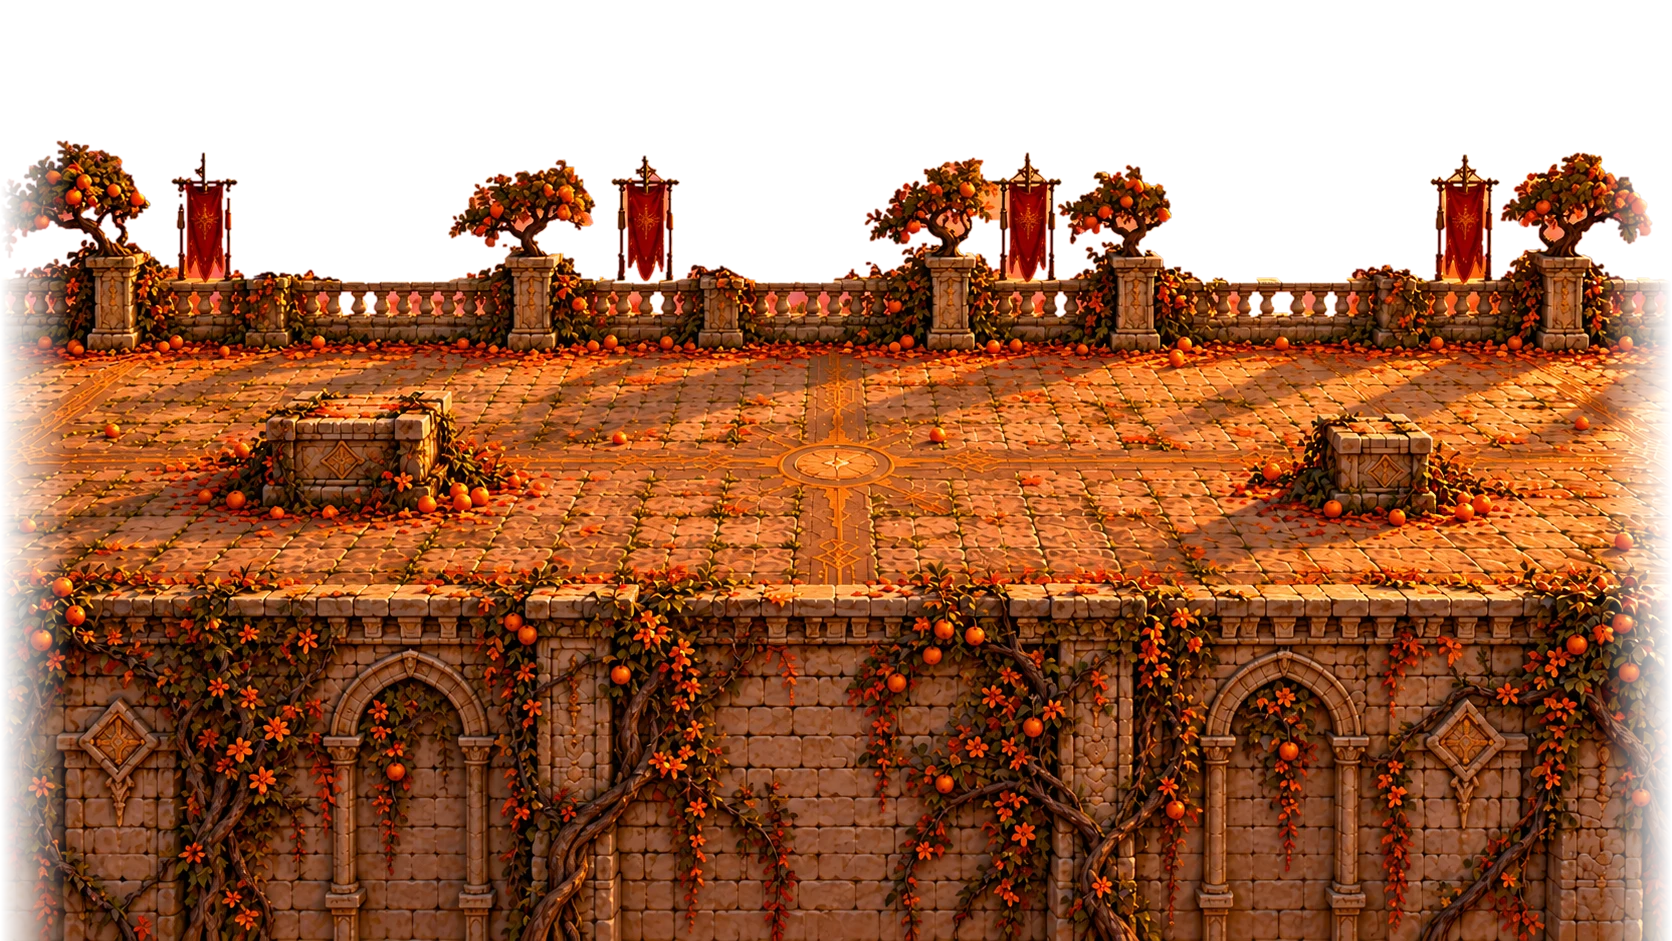
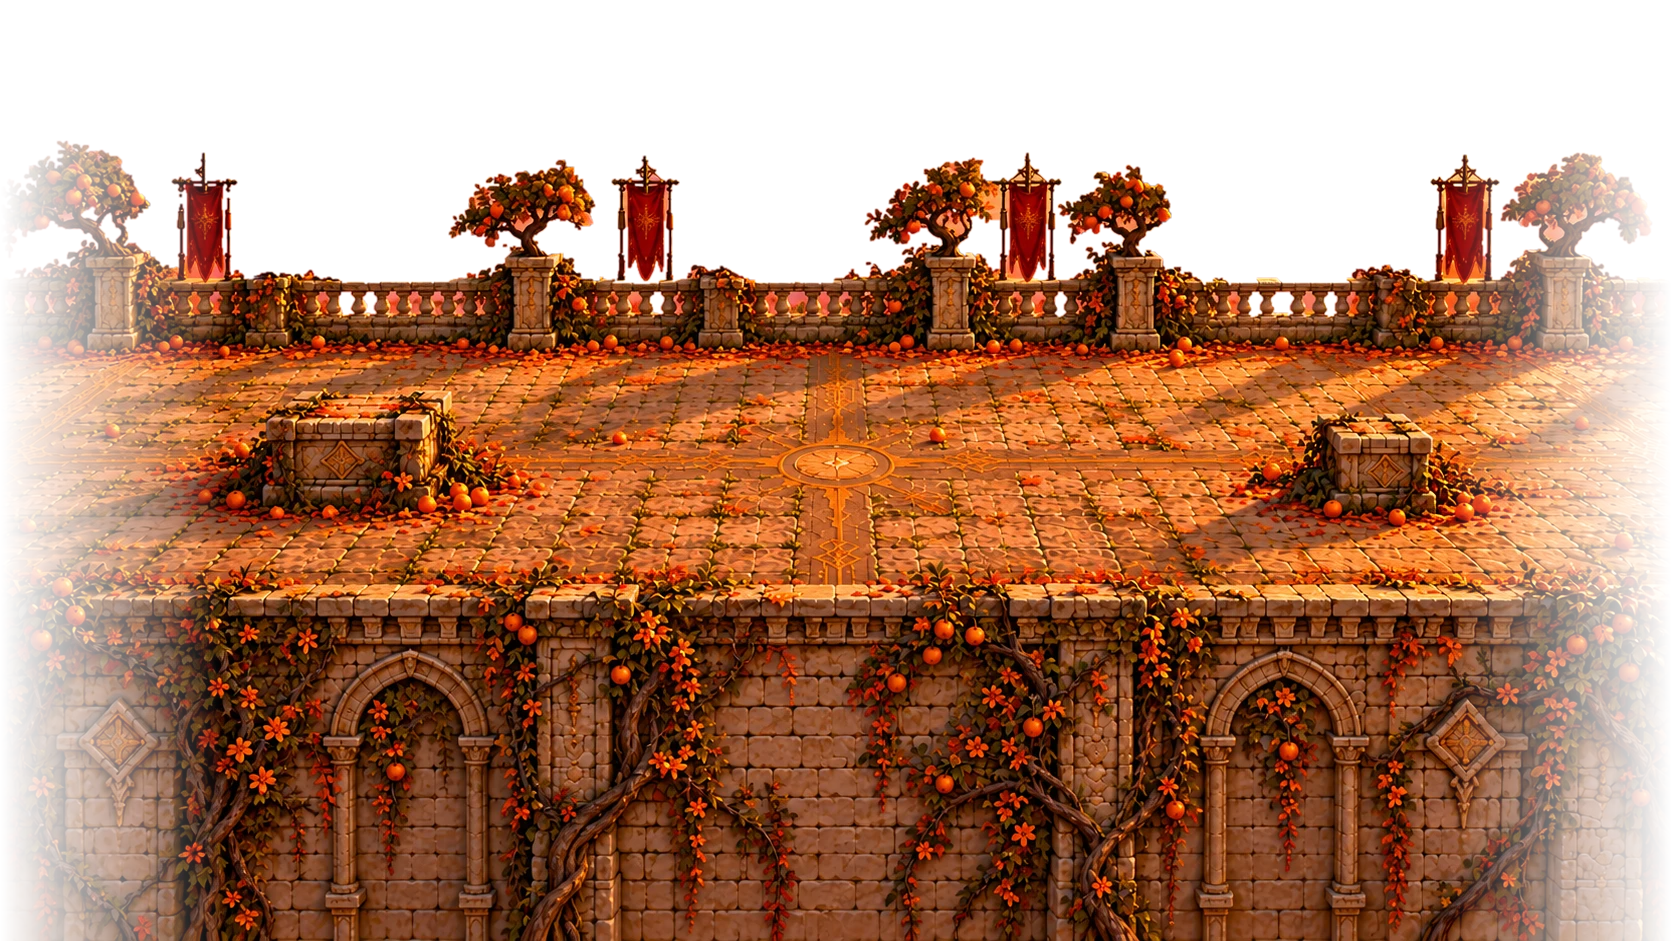
Platforms, the camera: it follows the ground you stand on, eased (a jump never moves it, a drop takes it down with you smoothly), and draws back (zooms out) gradually as you climb so the floor above and the one below are both in view; it never loses you (your body always well inside the view); the f
Claude-Session: https://claude.ai/code/session_01L1uDDec2PRhRRuGiNU2YTw

Changed region(s): [[0.0, 0.1541, 0.1244, 1.0], [0.8708, 0.1541, 0.9952, 1.0]]

diff --git a/src/world/OpenWorld.ts b/src/world/OpenWorld.ts
@@ -57,8 +57,9 @@ export function preloadOpenWorld(scene: Phaser.Scene): void {
   preloadBackdrop(scene);
 }
 
-/** Standing this high (world px) the camera starts to rise with you. */
-const LIFT_FROM = 60;
+/** Camera up high: the height where it is drawn back all the way, how far back (share of the zoom), how fast it
+ *  rises / comes down with the ground (ms), how fast it moves up and down (ms). */
+const UP_FULL = 340, UP_ZOOM = 0.2, CAM_RISE = 420, CAM_FALL = 220, CAM_EASE_Y = 160;
 
 /** The painted stone cube the towers are stacked of: its width, one cube's height (front face with plinth), its top face. */
 const CUBE = { w: 183, h: 86, top: 32 };
@@ -97,7 +98,8 @@ export class OpenWorld {
     this.buildOccluders(); this.buildTowers(); this.buildHeights(); this.buildGate(); this.buildNpcs(); this.buildPortal(); this.spawnMobs();
     if (BACKDROP) this.backdrop = new Backdrop(scene);
     const cam = scene.cameras.main;
-    this.ambience = new CourtyardAmbience(scene, Math.ceil(cam.width / cam.zoom) + 4, AREA_H, BACKDROP ? [330, 668] : undefined);
+    this.baseZoom = cam.zoom;
+    this.ambience = new CourtyardAmbience(scene, Math.ceil(cam.width / (cam.zoom * (1 - UP_ZOOM))) + 4, AREA_H, BACKDROP ? [330, 668] : undefined);
     const k = keyCap(scene, 0, 0, 32);
     this.promptKey = scene.add.text(0, -2, 'Y', { fontFamily: HUD.bodyFont, fontSize: '15px', fontStyle: '700', color: '#f3ede0', resolution: 2 }).setOrigin(0.5);
     this.prompt = scene.add.container(0, 0, [k, this.promptKey]).setDepth(UI_DEPTH).setVisible(false);
@@ -235,30 +237,45 @@ export class OpenWorld {
   /** World x of the screen's left edge. */
   get viewLeft(): number { const cam = this.scene.cameras.main; return this.camX - cam.width / cam.zoom / 2; }
 
-  /** The camera trails the player along the world (snap: straight there). On the terrace: its whole height, always. Down
-   *  the stairs it goes down with you (no cut, no fade) and over the plaza it follows you both ways (the terrace runs
-   *  above the whole plaza, so looking up always shows its arcade). */
-  private follow(x: number, y: number, ms: number, snap = false, z = 0): void {
-    const cam = this.scene.cameras.main, half = cam.width / cam.zoom / 2, halfH = cam.height / cam.zoom / 2;
-    const down = belowTerrace(y), terraceCy = WORLD_H / 2;
-    // height: on the terrace its centre; down the stairs it eases from there onto the player (centred by the stairs' foot)
+  /** The camera trails the player along the world (snap: straight there). On the terrace: its whole height. Down the
+   *  stairs it goes down with you (no cut, no fade) and over the plaza it follows you both ways. Up on the blocks and the
+   *  maps above it rises with the ground you stand on and draws back (zooms out) as you climb, so the floor below and the
+   *  one above are both in view; a jump never moves it, a drop takes it down with you, all of it eased (no jumps). */
+  private follow(x: number, y: number, ms: number, snap = false, ground = 0, z = 0, grounded = true): void {
+    const cam = this.scene.cameras.main, terraceCy = WORLD_H / 2;
+    // the height the camera follows: the ground you stand on; in the air the last one, or lower while you fall
+    if (grounded) this.camGround = ground; else this.camGround = Math.min(this.camGround, Math.max(ground, z));
+    const kh = snap ? 1 : 1 - Math.exp(-ms / (this.camGround < this.camH ? CAM_FALL : CAM_RISE));
+    this.camH += (this.camGround - this.camH) * kh;
+    // zoom: drawn back as you climb (all the way back from the height of a map above)
+    const up = Phaser.Math.SmoothStep(this.camH, 30, UP_FULL);
+    const zoom = this.baseZoom * (1 - UP_ZOOM * up);
+    if (Math.abs(cam.zoom - zoom) > 1e-4) cam.setZoom(zoom);
+    const half = cam.width / zoom / 2, halfH = cam.height / zoom / 2;
+    const down = belowTerrace(y);
     const lead = (ARENA.edgeY - terraceCy) * (1 - Phaser.Math.SmoothStep(y, ARENA.edgeY, ARENA.y));
-    // up on the climbing towers the camera rises with you (the sky above the landscape opens up)
-    const lift = down ? 0 : Math.max(0, z - LIFT_FROM);
-    const ty = down ? Phaser.Math.Clamp(y - lead, terraceCy, ARENA.y + ARENA.h - halfH) : terraceCy - lift;
+    // up high: the view rises so that you stand a little below its middle (the floor above and the one below both show)
+    const lift = down ? 0 : Math.max(0, this.camH * 0.92 - 20) * up + Math.max(0, this.camH - 20) * 0.25 * (1 - up);
+    let ty = down ? Phaser.Math.Clamp(y - lead, terraceCy, ARENA.y + ARENA.h - halfH) : terraceCy - lift;
+    // never lose you: whatever happens, your body stays well inside the view
+    const sy = y - z;
+    ty = Phaser.Math.Clamp(ty, sy - halfH + 260, Math.max(sy - halfH + 260, sy + halfH - 250));
     const hi = down ? Math.min(WORLD_W, ARENA.x + ARENA.w) - half : WORLD_W - half;
     const lo = down ? Math.max(0, ARENA.x) + half : half;
     const tx = Phaser.Math.Clamp(x, lo, Math.max(lo, hi));
-    const k = snap ? 1 : 1 - Math.exp(-ms / CAM_EASE);
+    const k = snap ? 1 : 1 - Math.exp(-ms / CAM_EASE), ky = snap ? 1 : 1 - Math.exp(-ms / CAM_EASE_Y);
     this.camX += (tx - this.camX) * k;
     if (Math.abs(tx - this.camX) < 0.05) this.camX = tx;
-    this.camY += (ty - this.camY) * k;
+    this.camY += (ty - this.camY) * ky;
     if (Math.abs(ty - this.camY) < 0.05) this.camY = ty;
     cam.centerOn(this.camX, this.camY);
     this.ambience.setView(this.viewLeft);
-    this.backdrop?.setView(this.viewLeft, cam.width / cam.zoom);
+    this.backdrop?.setView(this.viewLeft, cam.width / zoom);
     this.backdrop?.setLift(Math.max(0, terraceCy - this.camY));
   }
+  private camGround = 0;
+  private camH = 0;
+  private baseZoom = 1;
 
   /** Instant move (portal, waking up after a defeat): a short fade, then there. */
   jumpTo(id: string, x: number, y: number, k: Kin, done?: () => void): void {
@@ -280,9 +297,9 @@ export class OpenWorld {
 
   // ------------------------------------------------------------------ per frame
   /** player: z = height above what he stands on, supportZ = the height of that (0 = the floor). */
-  update(ms: number, player: { x: number; y: number; z: number; supportZ?: number; alive: boolean }): void {
+  update(ms: number, player: { x: number; y: number; z: number; supportZ?: number; absZ?: number; grounded?: boolean; alive: boolean }): void {
     this.t += ms;
-    this.follow(player.x, player.y, ms, false, player.supportZ ?? 0);
+    this.follow(player.x, player.y, ms, false, player.supportZ ?? 0, player.absZ ?? 0, player.grounded ?? true);
     this.ambience.update(ms);
     this.backdrop?.update(ms);
     // the area you are in (by where you stand on the strip; a little past the line, so it never flickers)

diff --git a/src/world/Backdrop.ts b/src/world/Backdrop.ts
@@ -125,7 +125,9 @@ export class Backdrop {
   }
 
   /** Share of the terrace's scrolling speed the landscape moves at: its picture's ends meet the world's ends. */
-  private get k(): number { return BACKDROP ? Phaser.Math.Clamp((BACKDROP.w - this.span) / Math.max(1, WORLD_W - this.span), 0, 1) : 1; }
+  /** The landscape grows when the view is wider than it (the camera drawn back up high): never a bare edge. */
+  private grow = 1;
+  private get k(): number { return BACKDROP ? Phaser.Math.Clamp((BACKDROP.w * this.grow - this.span) / Math.max(1, WORLD_W - this.span), 0, 1) : 1; }
 
   /** The view moved (world px of its left edge, its width). */
   /** The camera risen this far above the terrace (climbing towers): the landscape and the sky sink less than the
@@ -143,8 +145,10 @@ export class Backdrop {
 
   setView(left: number, span: number): void {
     this.left = left; this.span = span;
+    this.grow = BACKDROP ? Math.max(1, (span + 8) / BACKDROP.w) : 1;
+    this.land.setScale(this.grow); this.skyBack.setScale(this.grow);
     const k = this.k;
-    this.land.x = left * (1 - k); this.skyBack.x = this.land.x;
+    this.land.x = left * (1 - k) - (this.grow - 1) * 4; this.skyBack.x = this.land.x;
     this.sky.x = left * (1 - this.f('clouds'));
     this.haze.x = left * (1 - this.f('mist'));
     if (!this.placed && this.clouds.length) { // first view: spread the clouds and the mist over it

diff --git a/src/game/ActorView.ts b/src/game/ActorView.ts
@@ -400,7 +400,7 @@ export class ActorView {
     }
     // Name plate + running trail.
     if (this.nameText) {
-      const ny = y - supportZ + 22, d0 = NAME_DEPTH + y * 0.001; // names stay readable over blocks and urns in front
+      const ny = y - Math.max(supportZ, z - 12) + 22, d0 = NAME_DEPTH + y * 0.001; // names stay readable over blocks and urns in front; a long drop or climb: it goes with the body
       this.nameText.setPosition(x, ny).setDepth(d0 + 0.01).setAlpha(alpha).setVisible(this.visible);
       if (this.nameFrame) {
         if (!this.plainPlate) { const w = Math.max(96, this.nameText.width + 54); this.nameFrame.setDisplaySize(w, w * (this.nameFrame.height / this.nameFrame.width) * 1.0); }

diff --git a/src/scenes/LegacyCourtyardScene.ts b/src/scenes/LegacyCourtyardScene.ts
@@ -2901,7 +2901,7 @@ export class LegacyCourtyardScene extends Phaser.Scene {
   /** The camera along the world, NPC prompts, the portal (every frame). */
   private updateWorldUi(ms: number): void {
     if (!this.world) return;
-    this.world.update(ms, { x: this.kin.x, y: this.kin.y, z: this.kin.z - this.kin.supportZ, supportZ: this.kin.supportZ, alive: this.dead < 0 });
+    this.world.update(ms, { x: this.kin.x, y: this.kin.y, z: this.kin.z - this.kin.supportZ, supportZ: this.kin.supportZ, absZ: this.kin.z, grounded: this.kin.grounded, alive: this.dead < 0 });
     this.motes?.setPosition(this.world.viewLeft, 0); // the dust hangs in the air in front of you
   }
 

diff --git a/tools/world/heights.py b/tools/world/heights.py
@@ -16,13 +16,14 @@ MAPS = {
   'ivy_heights': {'name': 'Ivy Heights', 'over': 'terraces_2', 'H': 350, 'front': 350, 'floor': (352, 580), 'sky': (120, 350),
                   'blocks': [{'id': 'block-l', 'x': (266, 449), 'front': 503, 'h': 85, 'depth': 26},
                              {'id': 'block-r', 'x': (1321, 1434), 'front': 510, 'h': 70, 'depth': 23}],
-                  'mobs': {'kind': 'sprout', 'spawns': [[160, 525], [620, 470], [820, 545], [1010, 445], [1180, 530], [1560, 480]]}},
+                  'mobs': {'kind': 'sprout', 'spawns': [[300, 545], [620, 470], [820, 545], [1010, 445], [1180, 530], [1400, 480]]}},
   'orchard_heights': {'name': 'Orchard Heights', 'over': 'orchard_1', 'H': 350, 'front': 350, 'floor': (352, 580), 'sky': (120, 350),
                   'blocks': [{'id': 'block-l', 'x': (266, 449), 'front': 503, 'h': 85, 'depth': 26},
                              {'id': 'block-r', 'x': (1321, 1434), 'front': 510, 'h': 70, 'depth': 23}],
-                  'mobs': {'kind': 'thorn', 'spawns': [[160, 525], [620, 470], [820, 545], [1010, 445], [1180, 530], [1560, 480]]}},
+                  'mobs': {'kind': 'thorn', 'spawns': [[300, 545], [620, 470], [820, 545], [1010, 445], [1180, 530], [1400, 480]]}},
 }
-FADE = 70   # px: the picture's left / right ends fade out (the floor ends in the air there; you cannot walk off it)
+FADE = 220  # px
+WALK_IN = 150   # the walkable floor stops this far in from each end (the faded part is out of reach): the picture's left / right ends fade out (the floor ends in the air there; you cannot walk off it)
 out_dir = R + 'public/assets/world/heights/'; os.makedirs(out_dir, exist_ok=True)
 data = []
 for id_, m in MAPS.items():
@@ -46,7 +47,7 @@ for id_, m in MAPS.items():
     cv2.imwrite(out_dir + f"{id_}-{b['id']}.webp", cv2.cvtColor(rgba[y0:y1, x0:x1], cv2.COLOR_RGBA2BGRA), [cv2.IMWRITE_WEBP_QUALITY, 92])
     occ.append({'img': f"assets/world/heights/{id_}-{b['id']}.webp", 'x': X0 + x0, 'py': y0})
   gy = lambda p: F - (f1 - p)          # picture row on the floor → the terrace's ground y
-  data.append({'id': id_, 'name': m['name'], 'x': X0, 'w': w, 'H': H, 'front': F, 'back': gy(f0),
+  data.append({'id': id_, 'name': m['name'], 'x': X0, 'w': w, 'walk': [X0 + WALK_IN, X0 + w - WALK_IN], 'H': H, 'front': F, 'back': gy(f0),
                'img': f'assets/world/heights/{id_}.webp', 'imgY': F - H - f1, 'imgH': h,
                'blocks': [{'id': b['id'], 'x0': X0 + b['x'][0], 'x1': X0 + b['x'][1], 'front': gy(b['front']), 'h': b['h'], 'depth': b['depth'], 'occ': o} for b, o in zip(m['blocks'], occ)],
                'mobs': {'kind': m['mobs']['kind'], 'spawns': [[X0 + x, gy(p)] for x, p in m['mobs']['spawns']]}})

diff --git a/tools/world/descent.py b/tools/world/descent.py
@@ -86,7 +86,7 @@ def main():
   # the maps above the terrace (heights.py): their floors, high up behind it (one floor with the terrace's, held apart by
   # their height: the game stands you there only up on top)
   hp = R + 'src/data/world-heights.json'
-  ups = [box(h['x'] + 12, h['back'] + 4, h['x'] + h['w'] - 12, h['front'] - 2) for h in (json.load(open(hp)) if os.path.exists(hp) else [])]
+  ups = [box(h['walk'][0], h['back'] + 4, h['walk'][1], h['front'] - 2) for h in (json.load(open(hp)) if os.path.exists(hp) else [])]
   allw = unary_union([walk, stairs, floorW, *ups])
   assert allw.geom_type == 'Polygon', allw.geom_type
   coords = [[round(x, 1), round(y, 1)] for x, y in list(allw.exterior.coords)[:-1]]
